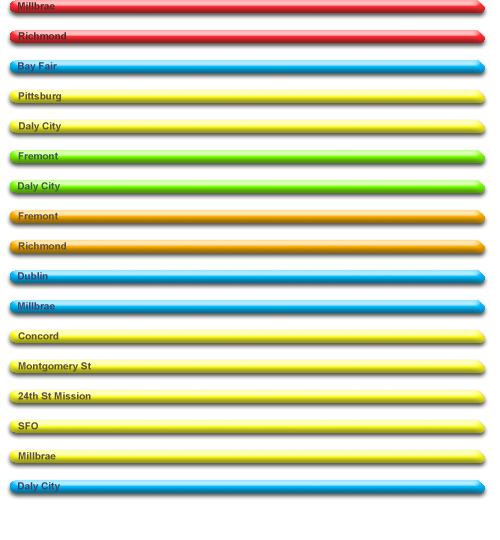
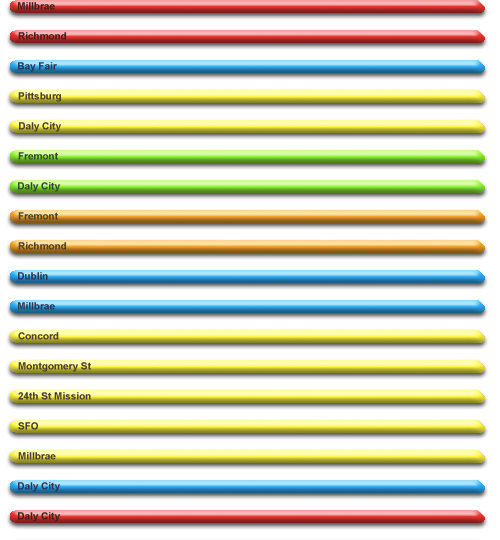
Add red_dalycity train line image.

diff --git a/BART.wdgt/Script/DrawTrain.js b/BART.wdgt/Script/DrawTrain.js
@@ -23,13 +23,14 @@ function DrawTrain () {
     var head_width = 10
     var minimum_width = 24  // Enough to show first letter.
 
-    var line_list = [ "red_dalycity", "red_richmond", "blue_bayfair", 
+    var line_list = [ "red_millbrae", "red_richmond", "blue_bayfair", 
                       "yellow_pittsburg", "yellow_dalycity", 
                       "green_fremont", "green_dalycity",
                       "orange_fremont", "orange_richmond", 
                       "blue_dublin", "blue_millbrae",
                       "yellow_concord", "yellow_montgomery", "yellow_24th",
-                      "yellow_sfo", "yellow_millbrae", "blue_dalycity" ];
+                      "yellow_sfo", "yellow_millbrae",
+                      "blue_dalycity", "red_dalycity" ];
 
     var line_rows = {}      // line_row[0] = "red_richmond", etc
     for (var i=0; i < line_list.length; i++) { line_rows[line_list[i]] = i }
